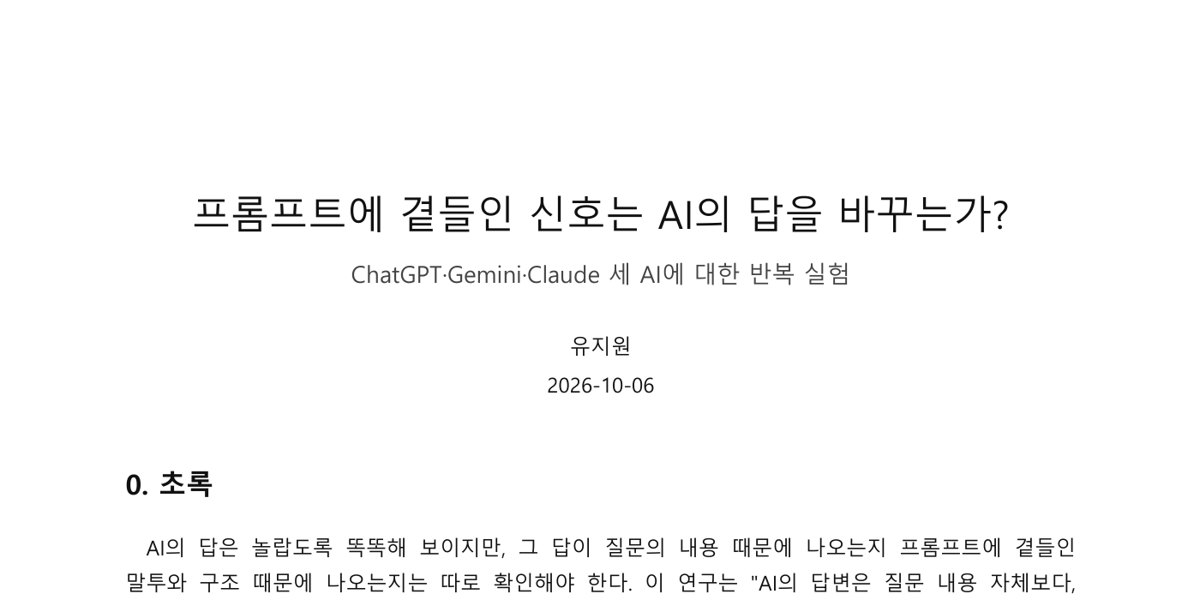
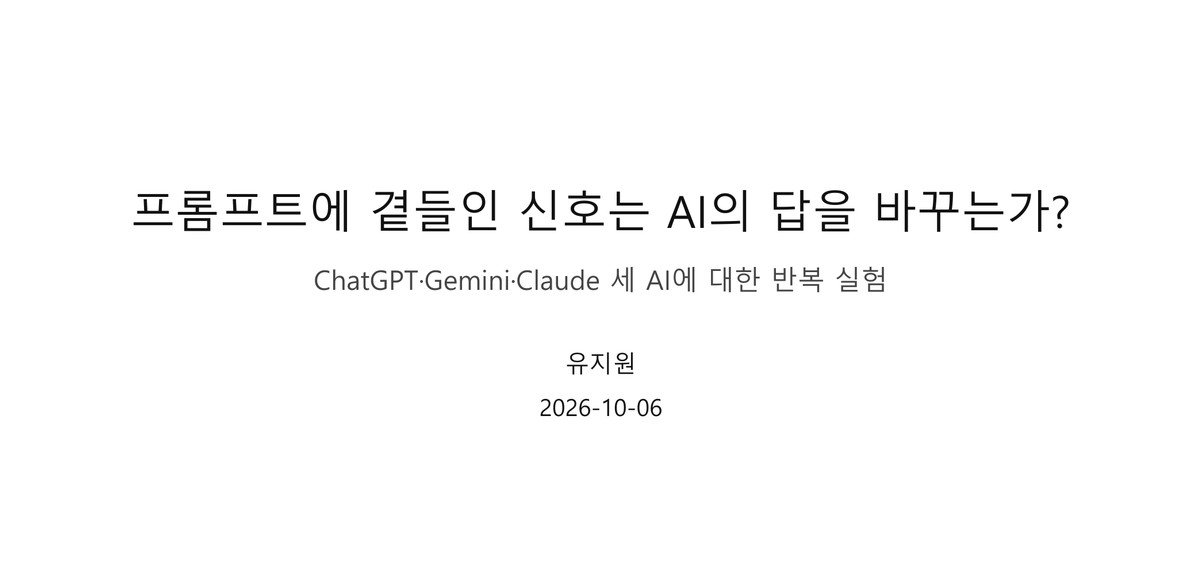
논문 썸네일을 제목 블록+흰 여백으로 교체, 대표작 버튼 확대

diff --git a/style.css b/style.css
@@ -454,3 +454,8 @@ body{word-break:keep-all;overflow-wrap:break-word}
 
 /* 카드 본문은 카드 폭에 맞춰 자연스럽게 줄바꿈 */
 .wc p{text-wrap:pretty;word-break:keep-all}
+
+/* 대표작 바로가기 버튼 키우기 */
+.wc .wbtns{gap:14px;padding-top:28px}
+.wc .wbtns a{font-size:17px;padding:18px 34px;border-width:2px}
+.wc .wbtns a.main{font-size:18px;padding:19px 40px;box-shadow:0 6px 18px color-mix(in srgb,var(--lime) 35%,transparent)}
